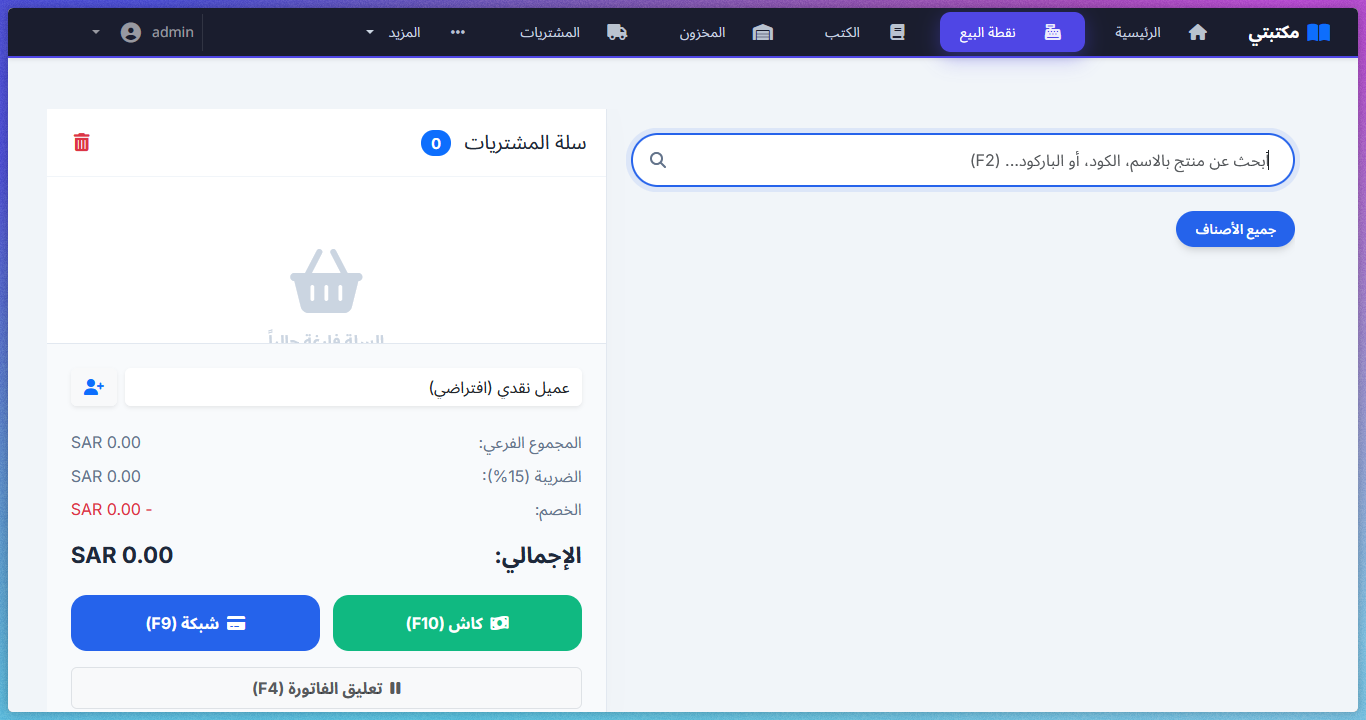
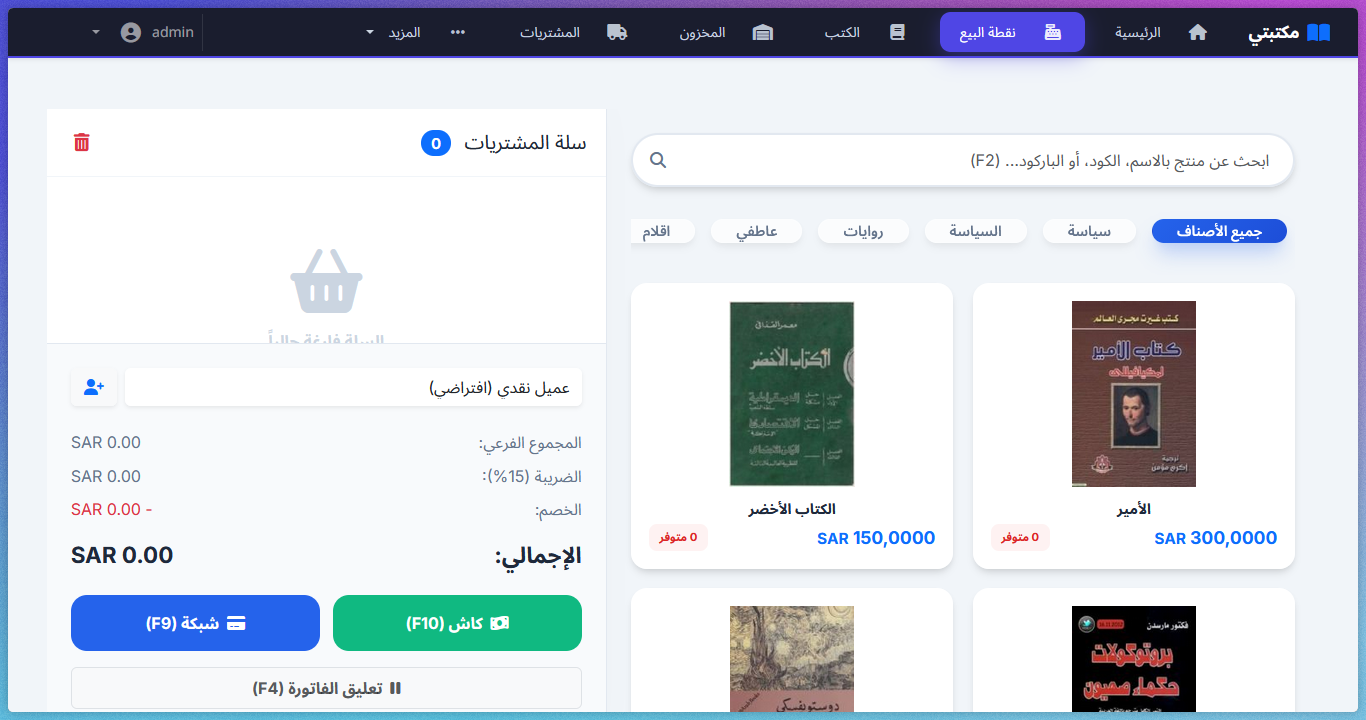
Fix: resolve purchase invoice form errors and enhance POS UI aesthetics
- Fixed TemplateSyntaxError in invoice_form.html by removing restricted __class__ access.
- Fixed IntegrityError in PurchaseInvoice by adding mandatory invoice_date field.
- Improved POS category buttons with modern aesthetics, glassmorphism, and smooth animations.
- Updated main.png preview.

diff --git a/templates/sales/pos.html b/templates/sales/pos.html
@@ -51,25 +51,65 @@
 
     .category-scroll {
         display: flex;
-        gap: 0.8rem;
+        gap: 1rem;
         overflow-x: auto;
-        padding-bottom: 1rem;
-        margin-bottom: 1rem;
-        scrollbar-width: none;
+        padding: 0.5rem 0.2rem 1.2rem;
+        margin-bottom: 0.5rem;
+        scrollbar-width: thin;
+        scrollbar-color: rgba(37, 99, 235, 0.2) transparent;
     }
+    .category-scroll::-webkit-scrollbar {
+        height: 6px;
+    }
+    .category-scroll::-webkit-scrollbar-track {
+        background: transparent;
+    }
+    .category-scroll::-webkit-scrollbar-thumb {
+        background: rgba(37, 99, 235, 0.1);
+        border-radius: 10px;
+    }
+    .category-scroll::-webkit-scrollbar-thumb:hover {
+        background: rgba(37, 99, 235, 0.2);
+    }
+
     .category-btn {
         white-space: nowrap;
-        border-radius: 50px;
-        padding: 0.5rem 1.2rem;
+        border-radius: 16px;
+        padding: 0.7rem 1.5rem;
         font-weight: 600;
-        font-size: 0.85rem;
-        border: none;
-        background: white;
+        font-size: 0.9rem;
+        border: 1px solid rgba(255, 255, 255, 0.4);
+        background: rgba(255, 255, 255, 0.7);
+        backdrop-filter: blur(8px);
+        -webkit-backdrop-filter: blur(8px);
         color: var(--pos-secondary);
-        box-shadow: var(--pos-card-shadow);
-        transition: all 0.2s;
+        box-shadow: 0 4px 6px -1px rgba(0, 0, 0, 0.05), 0 2px 4px -1px rgba(0, 0, 0, 0.03);
+        transition: all 0.3s cubic-bezier(0.4, 0, 0.2, 1);
+        cursor: pointer;
+        display: flex;
+        align-items: center;
+        gap: 0.5rem;
     }
-    .category-btn.active { background: var(--pos-primary); color: white; }
+    
+    .category-btn:hover {
+        transform: translateY(-3px);
+        background: white;
+        box-shadow: 0 10px 15px -3px rgba(0, 0, 0, 0.1), 0 4px 6px -2px rgba(0, 0, 0, 0.05);
+        color: var(--pos-primary);
+        border-color: rgba(37, 99, 235, 0.2);
+    }
+
+    .category-btn.active {
+        background: linear-gradient(135deg, var(--pos-primary) 0%, #1d4ed8 100%);
+        color: white;
+        border-color: transparent;
+        box-shadow: 0 10px 15px -3px rgba(37, 99, 235, 0.3), 0 4px 6px -2px rgba(37, 99, 235, 0.1);
+    }
+    
+    .category-btn.active:hover {
+        transform: translateY(-3px) scale(1.02);
+        box-shadow: 0 20px 25px -5px rgba(37, 99, 235, 0.4), 0 10px 10px -5px rgba(37, 99, 235, 0.1);
+    }
 
     .product-grid {
         display: grid;

diff --git a/templates/purchases/invoice_form.html b/templates/purchases/invoice_form.html
@@ -53,7 +53,7 @@
                     <div class="col-lg-12">
                         <div class="card shadow-sm border-0 mb-4 p-4">
                             <div class="row g-3">
-                                <div class="col-md-4">
+                                <div class="col-md-3">
                                     <label class="form-label-bold">المورد</label>
                                     <select name="supplier" class="form-select" required>
                                         <option value="">اختر المورد...</option>
@@ -65,7 +65,15 @@
                                         {% endfor %}
                                     </select>
                                 </div>
-                                <div class="col-md-3">
+                                <div class="col-md-2">
+                                    <label class="form-label-bold">التاريخ</label>
+                                    <input type="date"
+                                           name="invoice_date"
+                                           class="form-select"
+                                           value="{{ form.invoice_date.value|date:'Y-m-d'|default:'' }}"
+                                           required>
+                                </div>
+                                <div class="col-md-2">
                                     <label class="form-label-bold">طريقة الدفع</label>
                                     <select name="payment_method" class="form-select">
                                         <option value="cash"
@@ -120,7 +128,7 @@
                                                                 class="form-select product-select"
                                                                 required
                                                                 onchange="updatePrice(this); calculateRow(this)">
-                                                            {% for p in form.instance.items.all.0.product.__class__.objects.all %}
+                                                            {% for p in products %}
                                                                 <option value="{{ p.id }}"
                                                                         data-price="{{ p.purchase_price }}"
                                                                         {% if item.product_id == p.id %}selected{% endif %}>

diff --git a/apps/purchases/views.py b/apps/purchases/views.py
@@ -42,7 +42,7 @@ class PurchaseInvoiceListView(LoginRequiredMixin, ListView):
 class PurchaseInvoiceCreateView(LoginRequiredMixin, CreateView):
     model = PurchaseInvoice
     template_name = 'purchases/invoice_form.html'
-    fields = ['supplier', 'payment_method', 'notes']
+    fields = ['supplier', 'invoice_date', 'payment_method', 'notes']
     success_url = reverse_lazy('invoice_list')
 
     def get_context_data(self, **kwargs):
@@ -91,7 +91,7 @@ class PurchaseInvoiceCreateView(LoginRequiredMixin, CreateView):
 class PurchaseInvoiceUpdateView(LoginRequiredMixin, UpdateView):
     model = PurchaseInvoice
     template_name = 'purchases/invoice_form.html'
-    fields = ['supplier', 'payment_method', 'notes']
+    fields = ['supplier', 'invoice_date', 'payment_method', 'notes']
     success_url = reverse_lazy('invoice_list')
 
     def get_object(self, queryset=None):
